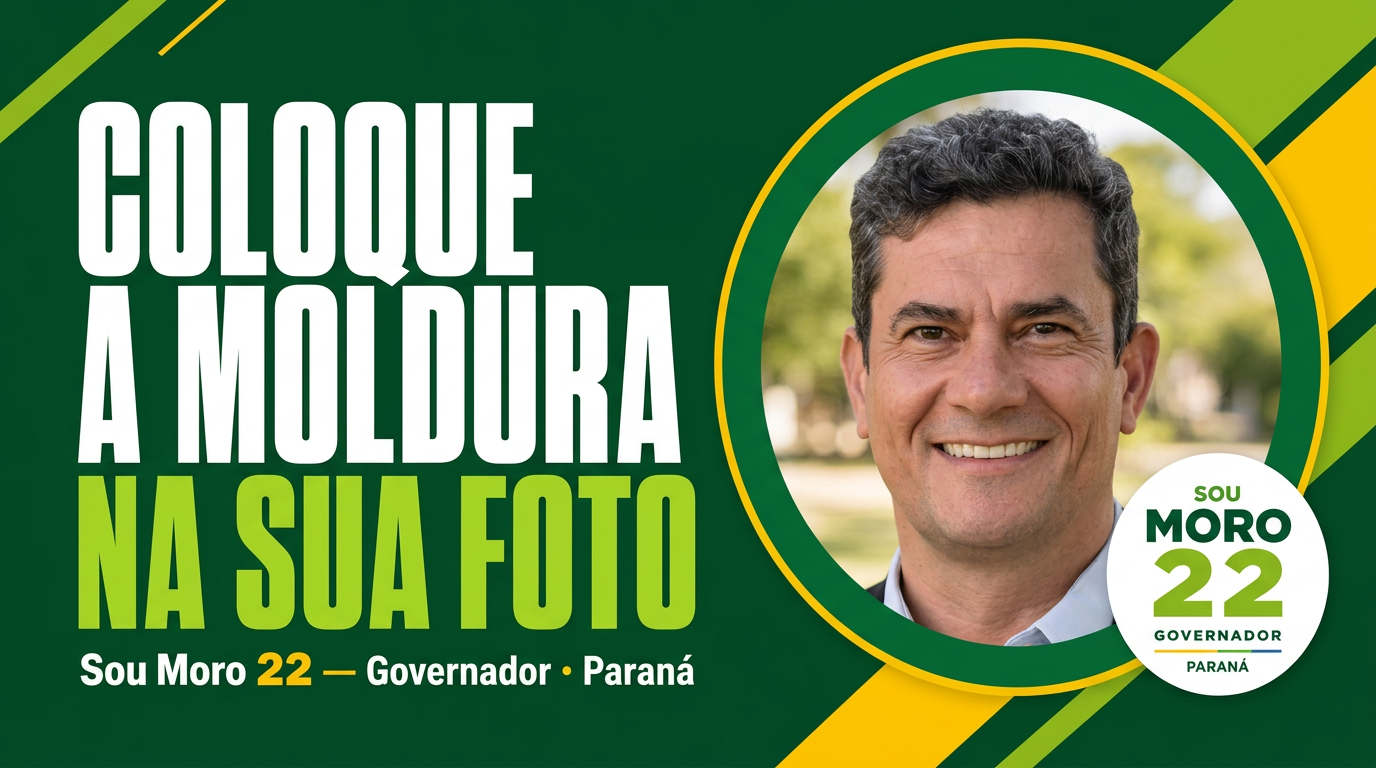
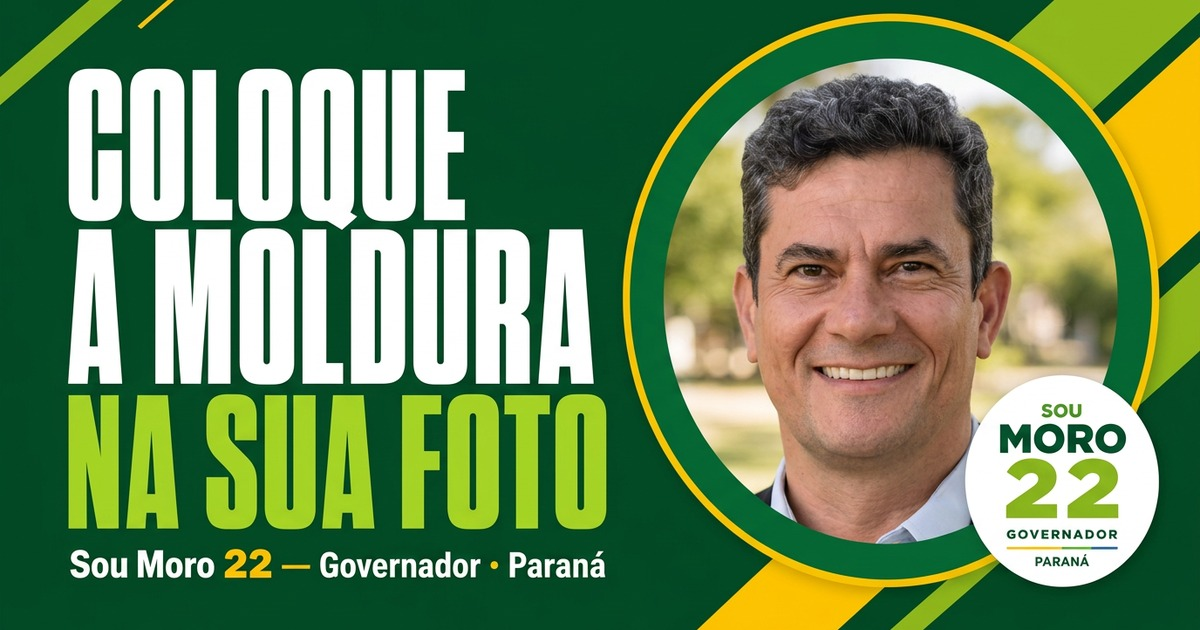
Changes

diff --git a/moldura/index.html b/moldura/index.html
@@ -25,14 +25,14 @@
     
     <meta property="og:type" content="website" />
     <meta property="og:url" content="https://juntosparana399.com.br/moldura" />
-    <meta property="og:image" content="https://juntosparana399.com.br/og-moldura.jpg?v=1">
+    <meta property="og:image" content="https://juntosparana399.com.br/og-moldura.jpg?v=2">
     <meta property="og:image:width" content="1200" />
     <meta property="og:image:height" content="630" />
     <meta property="og:image:type" content="image/jpeg" />
 
     <meta name="twitter:card" content="summary_large_image" />
     <meta name="twitter:site" content="@JuntosParana399" />
-    <meta name="twitter:image" content="https://juntosparana399.com.br/og-moldura.jpg?v=1">
+    <meta name="twitter:image" content="https://juntosparana399.com.br/og-moldura.jpg?v=2">
     <meta property="og:title" content="Sou Moro 22 — Coloque a moldura oficial na sua foto de perfil">
   <meta name="twitter:title" content="Sou Moro 22 — Coloque a moldura oficial na sua foto de perfil">
   <meta property="og:description" content="Em 10 segundos: envie sua foto, escolha a arte e baixe sua imagem de perfil com a moldura oficial Moro 22. Feed, story e status. 100% grátis e no seu dispositivo.">
